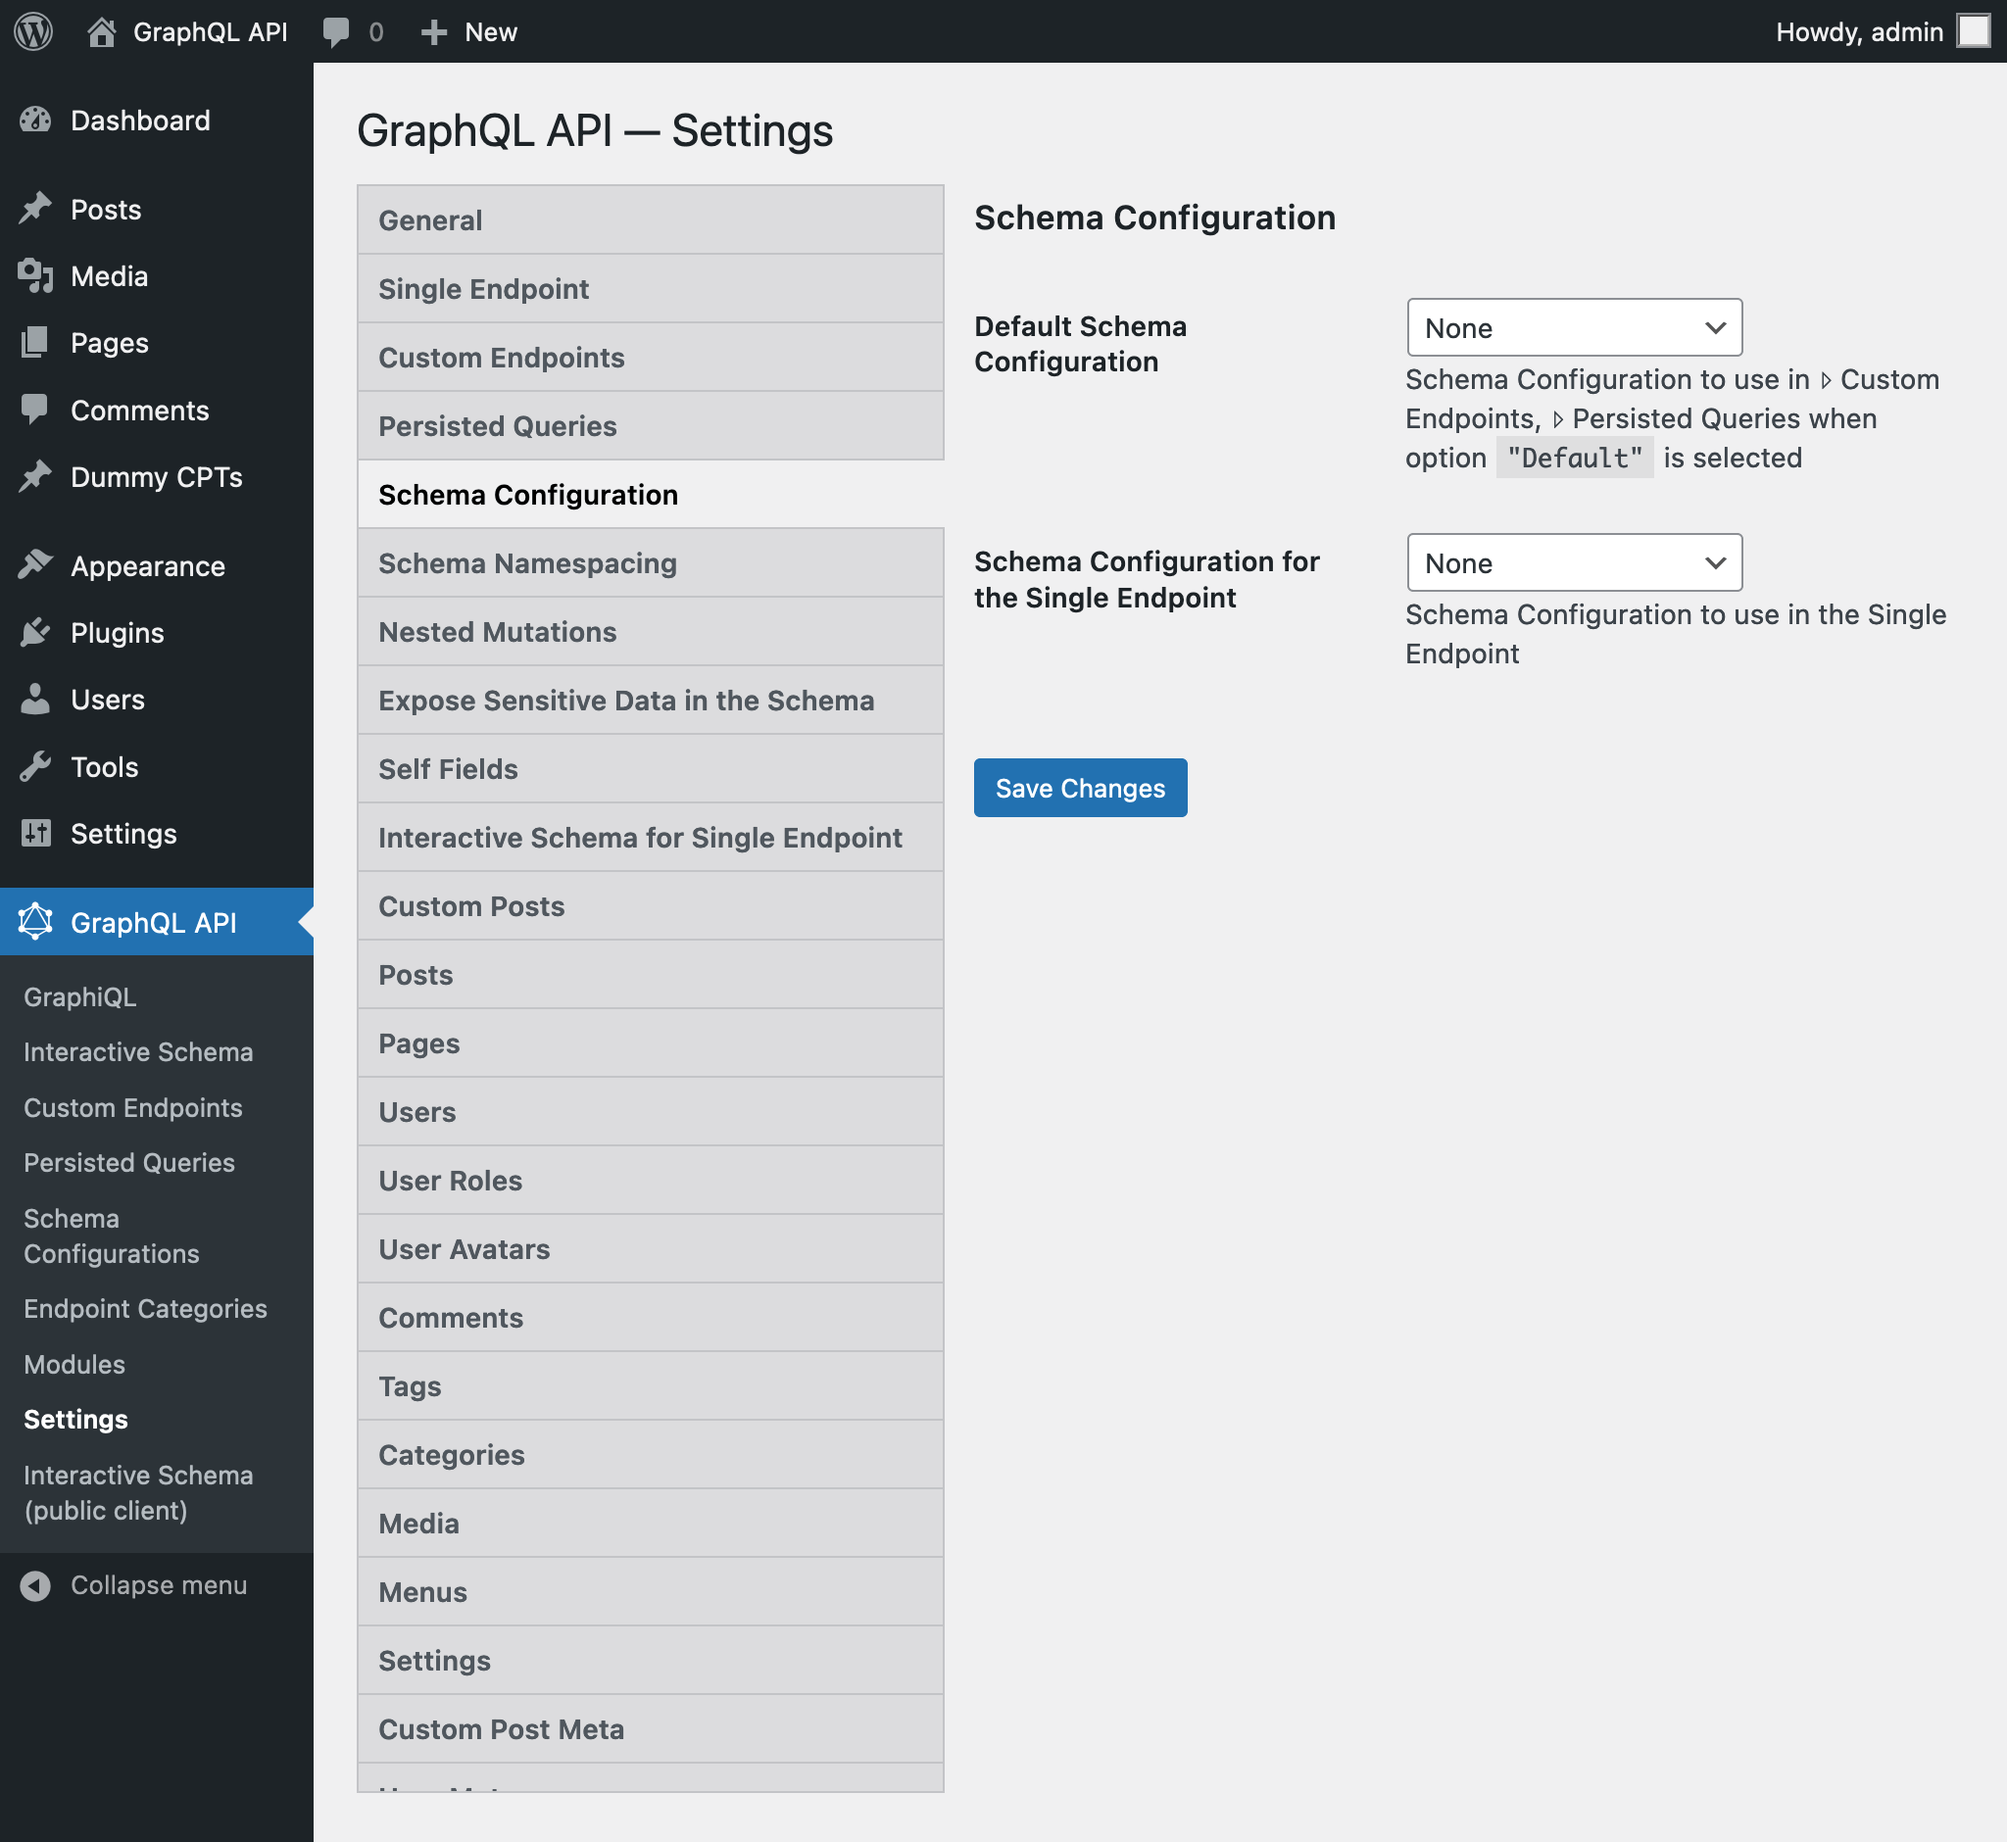
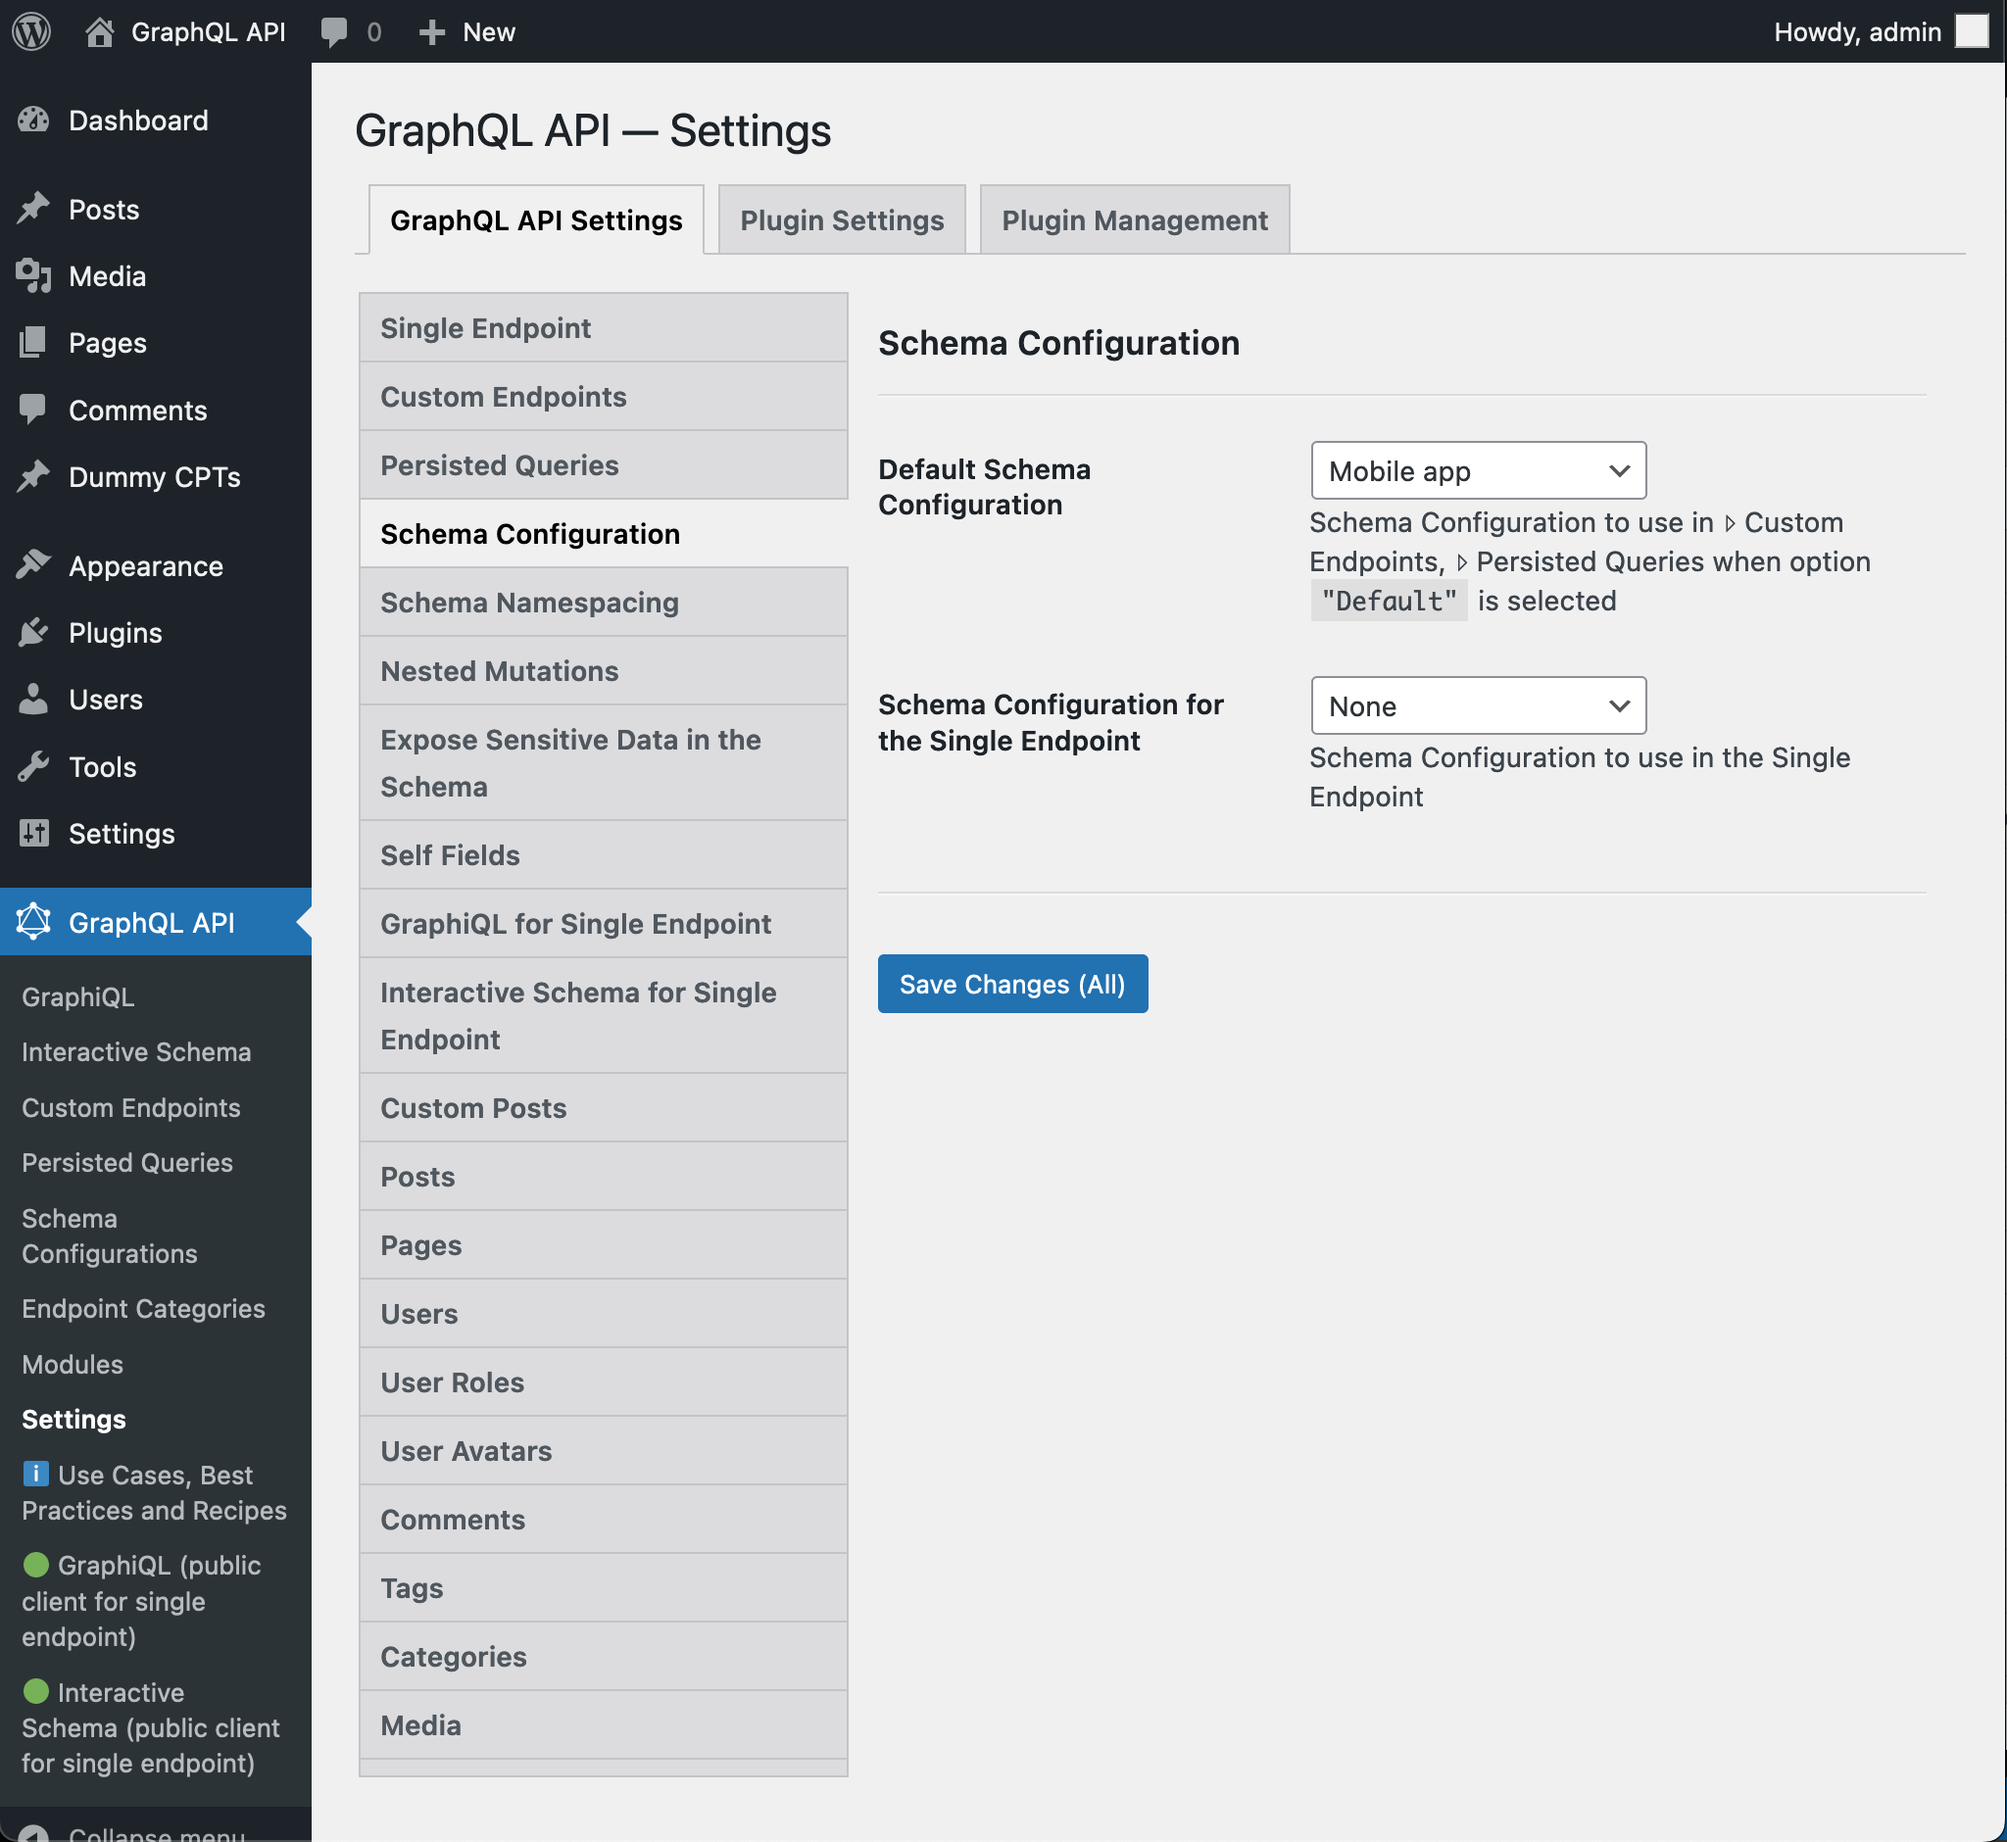
Changelog for Settings page

diff --git a/docs/release-notes/1.0/en.md b/docs/release-notes/1.0/en.md
@@ -25,11 +25,11 @@ Documentation for the corresponding PRO features can be visualized in the plugin
 
 ![Clicking on "View details" displays the documentation](../../images/releases/v1.0/pro-documentation-schema-configuration-modal.png)
 
-## The Settings page has tabs displayed vertically
+## The Settings page has been re-designed
 
 Due to the great number of modules in the plugin, the Settings page required several rows to display all tabs, which was not very polished.
 
-Now, the Settings page displays the tabs vertically, making it easier to browse them:
+Now, the Settings page organizes all modules into 2 levels, and displays tabs vertically, making it easier to browse them:
 
 ![Settings page](../../images/releases/v1.0/settings-page.png)
 

diff --git a/CHANGELOG.md b/CHANGELOG.md
@@ -10,7 +10,7 @@ Updates should follow the [Keep a CHANGELOG](http://keepachangelog.com/) princip
 
 - Browse "Additional Documentation" when editing a Schema Configuration
 - Added documentation for PRO modules (provided by the GraphQL API PRO plugin, released alongside the GraphQL API for WordPress plugin's v1.0), and their corresponding Schema Configuration functionalities
-- The Settings page has tabs displayed vertically
+- The Settings page has been re-designed, featuring 2-level organization and tabs displayed vertically
 - Added documentation page "Use Cases, Best Practices, and Recipes"
 
 ### Fixed
